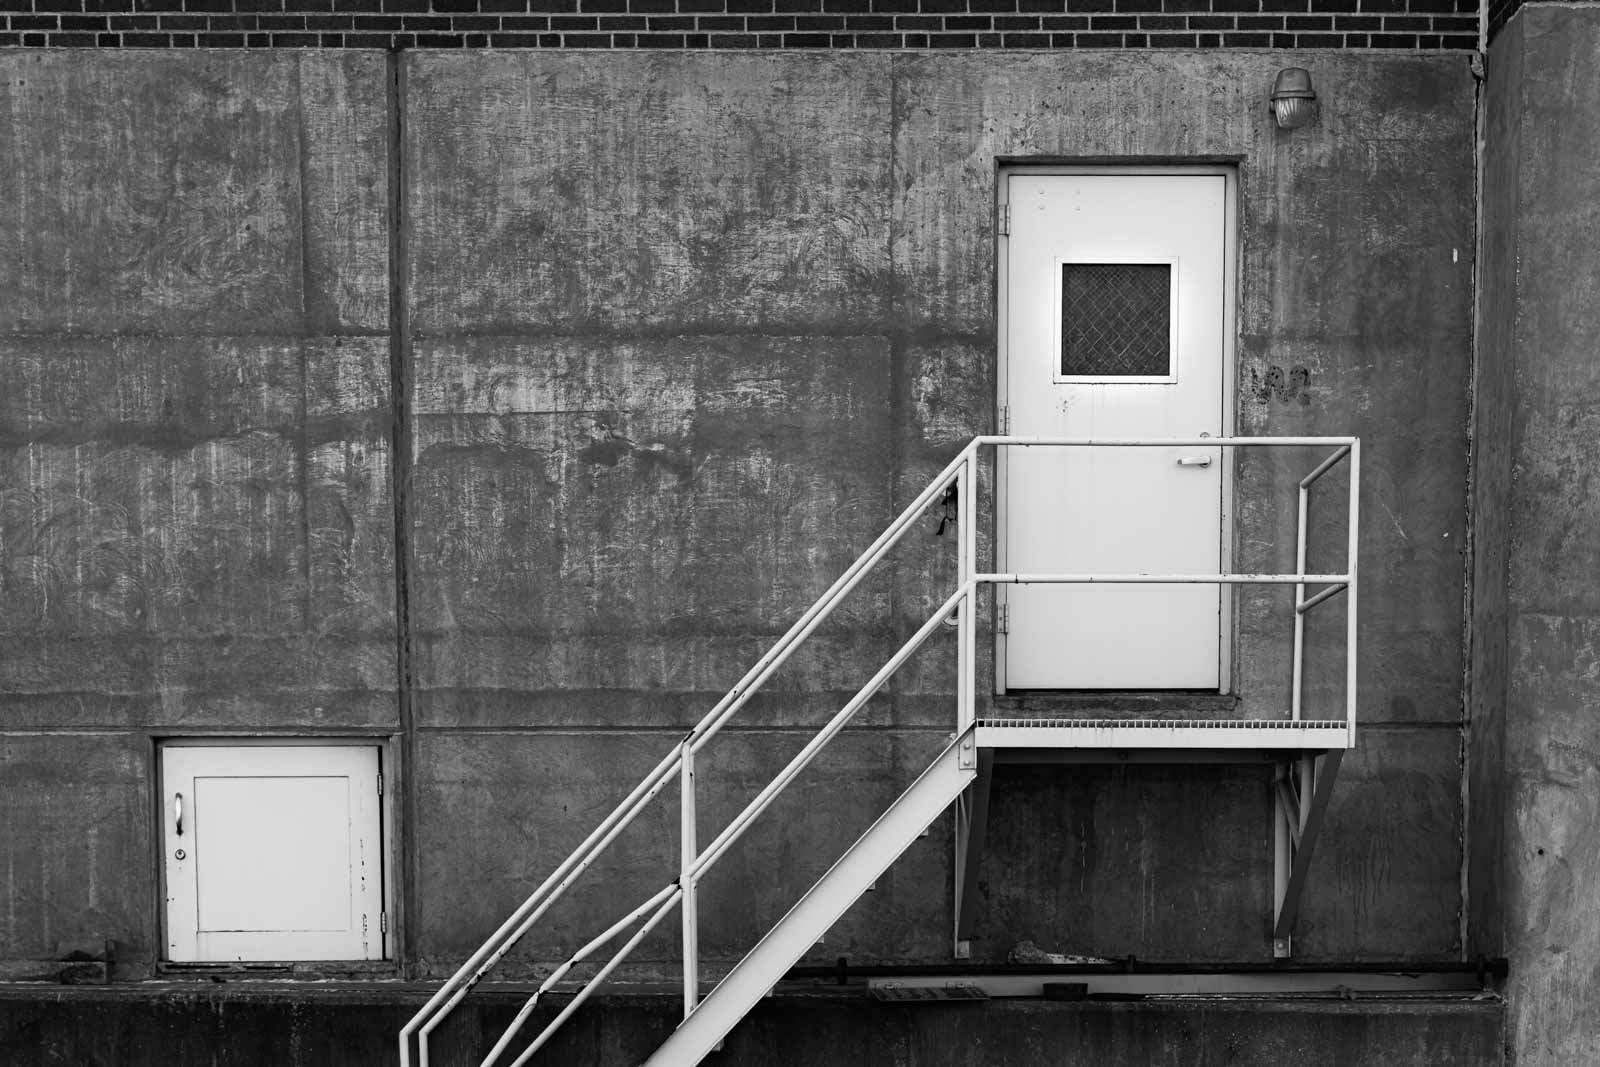
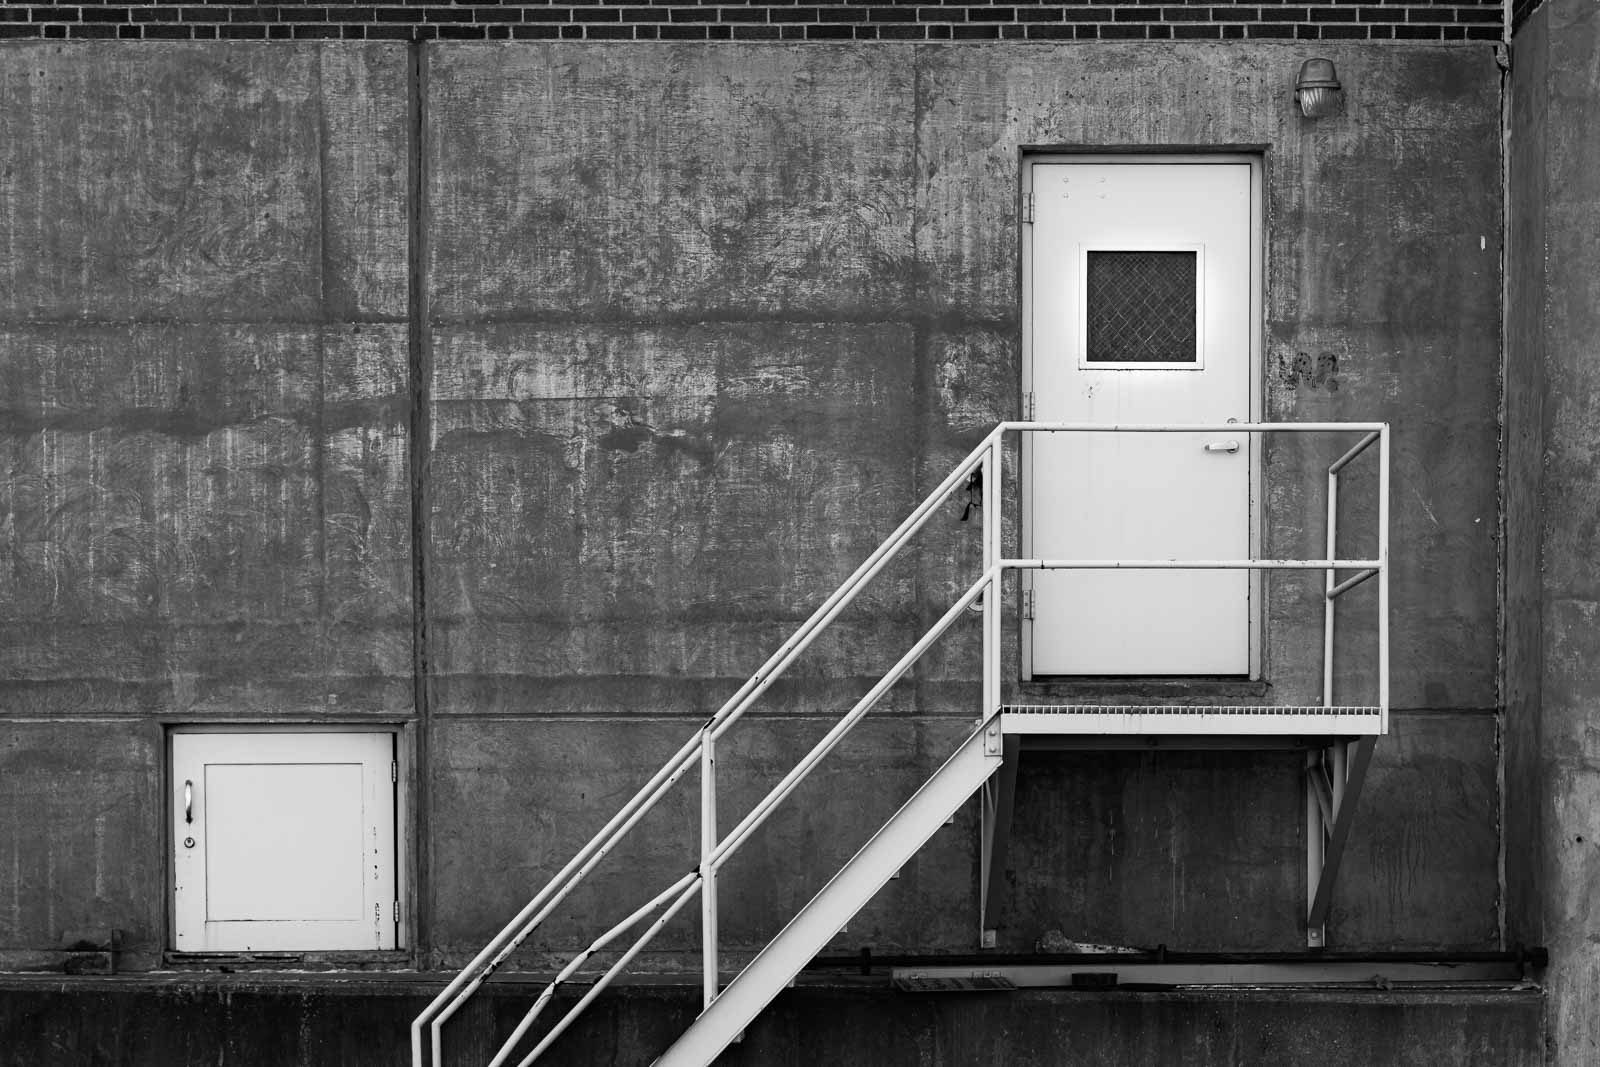
added fade to carousel images. cropped two baltz images

diff --git a/photo/baltz/index.html b/photo/baltz/index.html
@@ -189,6 +189,24 @@
             });
         });
     </script>
+
+    <script>
+        const images = document.getElementsByTagName("img");
+        for (let image of images) {
+            image.style.opacity = "0";
+            if (!image.complete) {
+                image.addEventListener("load", fadeImg);
+            } else {
+                fadeImg.bind(image)();
+            }
+        }
+
+        async function fadeImg() {
+            await new Promise(r => setTimeout(r, 1));
+            this.style.transition = "opacity 1s";
+            this.style.opacity = "1";
+        }
+    </script>
 </body>
 
 <footer>

diff --git a/photo/composite/index.html b/photo/composite/index.html
@@ -104,6 +104,24 @@
             });
         });
     </script>
+
+    <script>
+        const images = document.getElementsByTagName("img");
+        for (let image of images) {
+            image.style.opacity = "0";
+            if (!image.complete) {
+                image.addEventListener("load", fadeImg);
+            } else {
+                fadeImg.bind(image)();
+            }
+        }
+
+        async function fadeImg() {
+            await new Promise(r => setTimeout(r, 1));
+            this.style.transition = "opacity 1s";
+            this.style.opacity = "1";
+        }
+    </script>
 </body>
 
 <footer>

diff --git a/photo/irish/index.html b/photo/irish/index.html
@@ -171,6 +171,24 @@
             });
         });
     </script>
+
+    <script>
+        const images = document.getElementsByTagName("img");
+        for (let image of images) {
+            image.style.opacity = "0";
+            if (!image.complete) {
+                image.addEventListener("load", fadeImg);
+            } else {
+                fadeImg.bind(image)();
+            }
+        }
+
+        async function fadeImg() {
+            await new Promise(r => setTimeout(r, 1));
+            this.style.transition = "opacity 1s";
+            this.style.opacity = "1";
+        }
+    </script>
 </body>
 
 <footer>

diff --git a/photo/okstate/index.html b/photo/okstate/index.html
@@ -171,6 +171,24 @@
             });
         });
     </script>
+
+    <script>
+        const images = document.getElementsByTagName("img");
+        for (let image of images) {
+            image.style.opacity = "0";
+            if (!image.complete) {
+                image.addEventListener("load", fadeImg);
+            } else {
+                fadeImg.bind(image)();
+            }
+        }
+
+        async function fadeImg() {
+            await new Promise(r => setTimeout(r, 1));
+            this.style.transition = "opacity 1s";
+            this.style.opacity = "1";
+        }
+    </script>
 </body>
 
 <footer>

diff --git a/photo/sugimoto/index.html b/photo/sugimoto/index.html
@@ -169,6 +169,24 @@
             });
         });
     </script>
+
+    <script>
+        const images = document.getElementsByTagName("img");
+        for (let image of images) {
+            image.style.opacity = "0";
+            if (!image.complete) {
+                image.addEventListener("load", fadeImg);
+            } else {
+                fadeImg.bind(image)();
+            }
+        }
+
+        async function fadeImg() {
+            await new Promise(r => setTimeout(r, 1));
+            this.style.transition = "opacity 1s";
+            this.style.opacity = "1";
+        }
+    </script>
 </body>
 
 <footer>

diff --git a/photo/pelican/index.html b/photo/pelican/index.html
@@ -89,6 +89,24 @@
             });
         });
     </script>
+
+    <script>
+        const images = document.getElementsByTagName("img");
+        for (let image of images) {
+            image.style.opacity = "0";
+            if (!image.complete) {
+                image.addEventListener("load", fadeImg);
+            } else {
+                fadeImg.bind(image)();
+            }
+        }
+
+        async function fadeImg() {
+            await new Promise(r => setTimeout(r, 1));
+            this.style.transition = "opacity 1s";
+            this.style.opacity = "1";
+        }
+    </script>
 </body>
 
 <footer>

diff --git a/code/website/index.html b/code/website/index.html
@@ -33,7 +33,7 @@
         <p class="black source">
             This website you're viewing right now is one of my first attempts at front-end development. I wanted
             a more central online platform, and despite the numerous website templates available these days, I thought
-            it would be fun to try building something from scratch! This is what I came up with after about a week,
+            it would be fun to try building something from scratch! This is what I came up with in about a week,
             using almost exclusively HTML and CSS.
             <br><br>
             Check out the code
